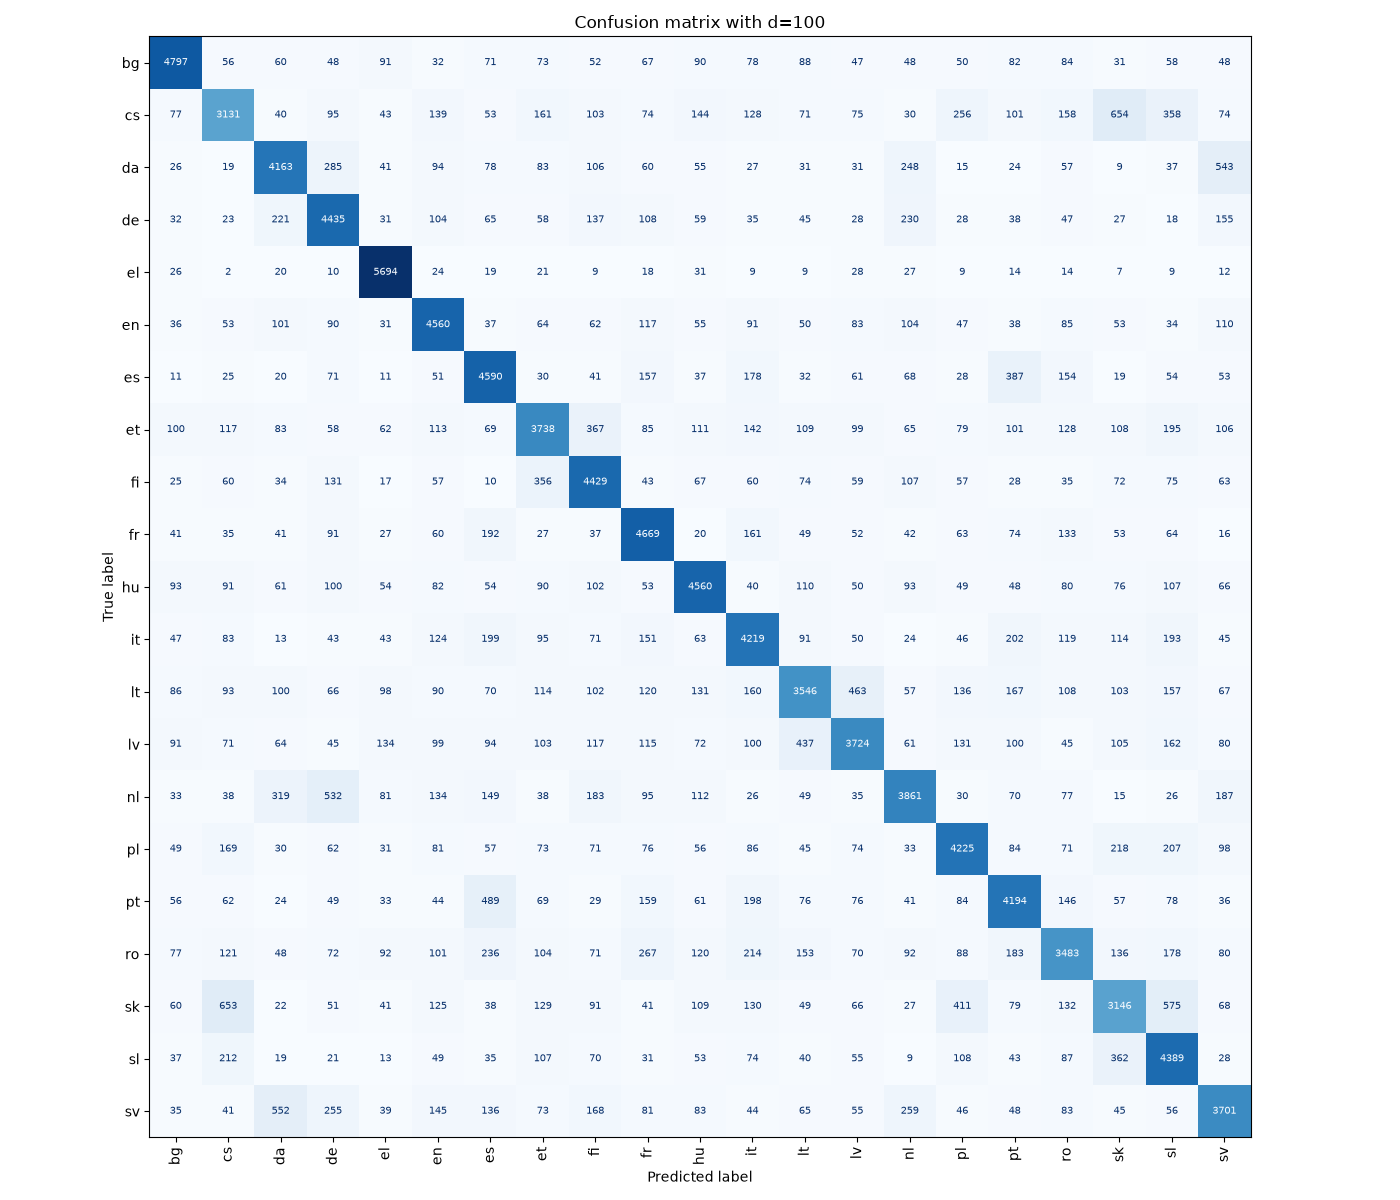
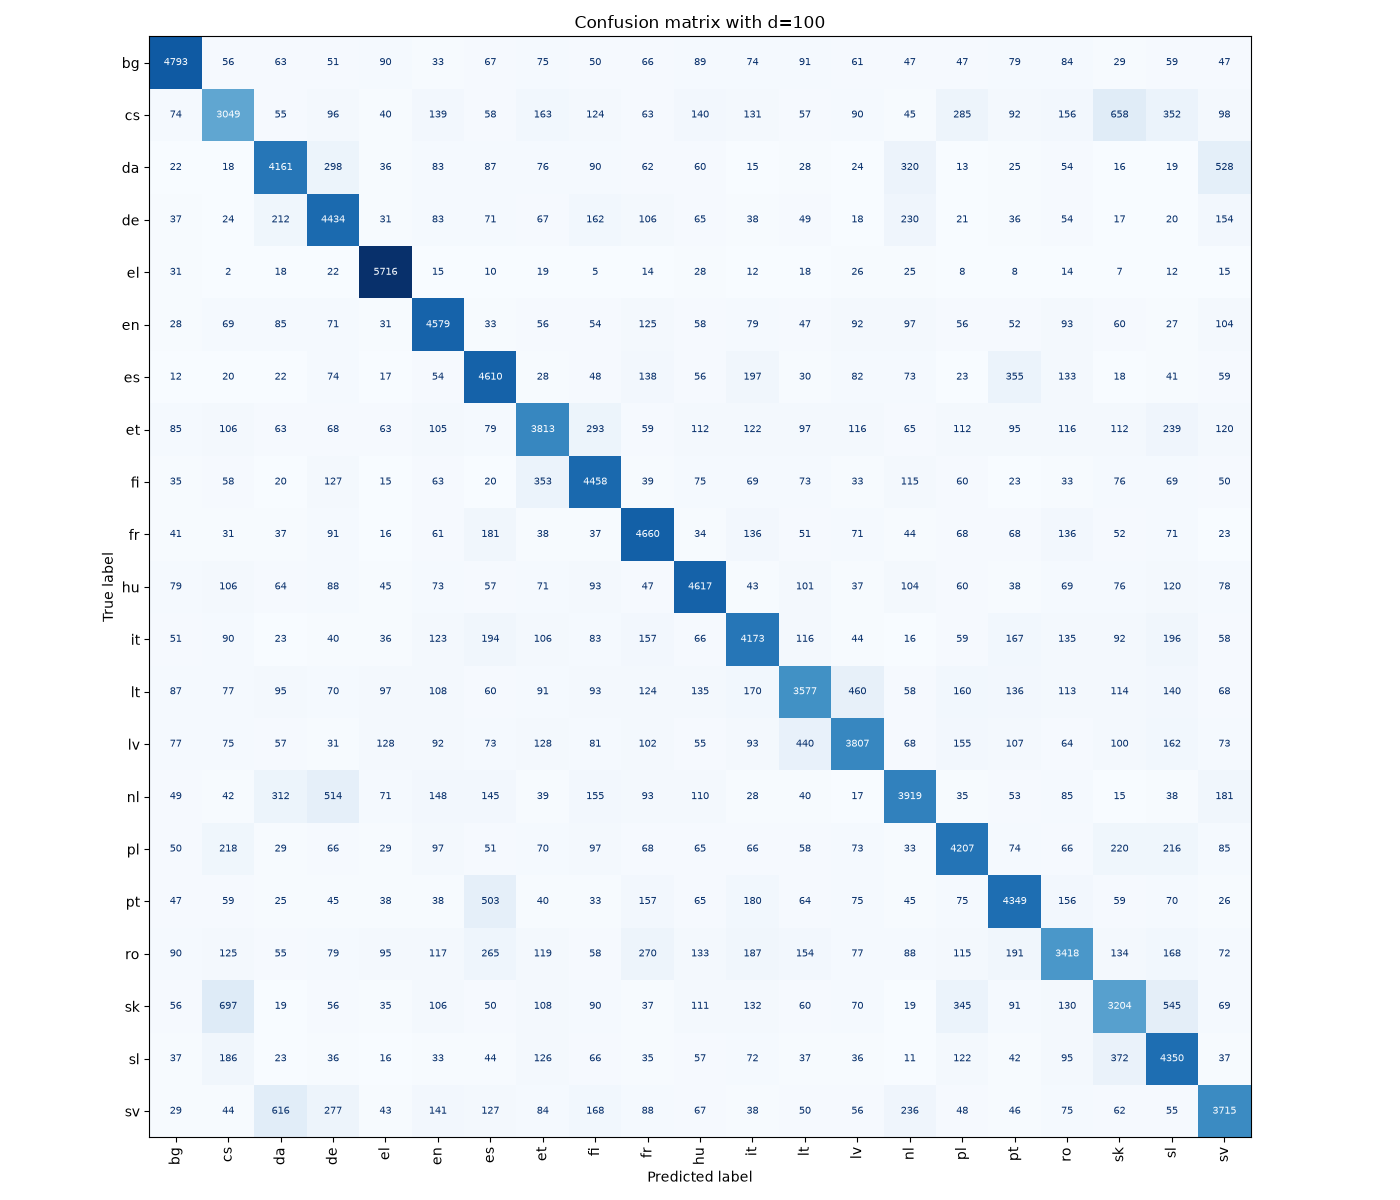
dataset bug!!!!

diff --git a/lab2/part2/dataset.py b/lab2/part2/dataset.py
@@ -32,10 +32,7 @@ def preprocess_data(sentences: list[str]):
             continue
 
         # Trim whitespace
-        s = sentence.strip()
-
-        # To lowercase
-        s = s.lower()
+        s = s.strip()
 
         # Remove punctuation. Unicode regex so Cyrillic and other non-latin languages keeps their letters.
         s = re.sub(r"[^\w\s]|\d|_", "", s)
